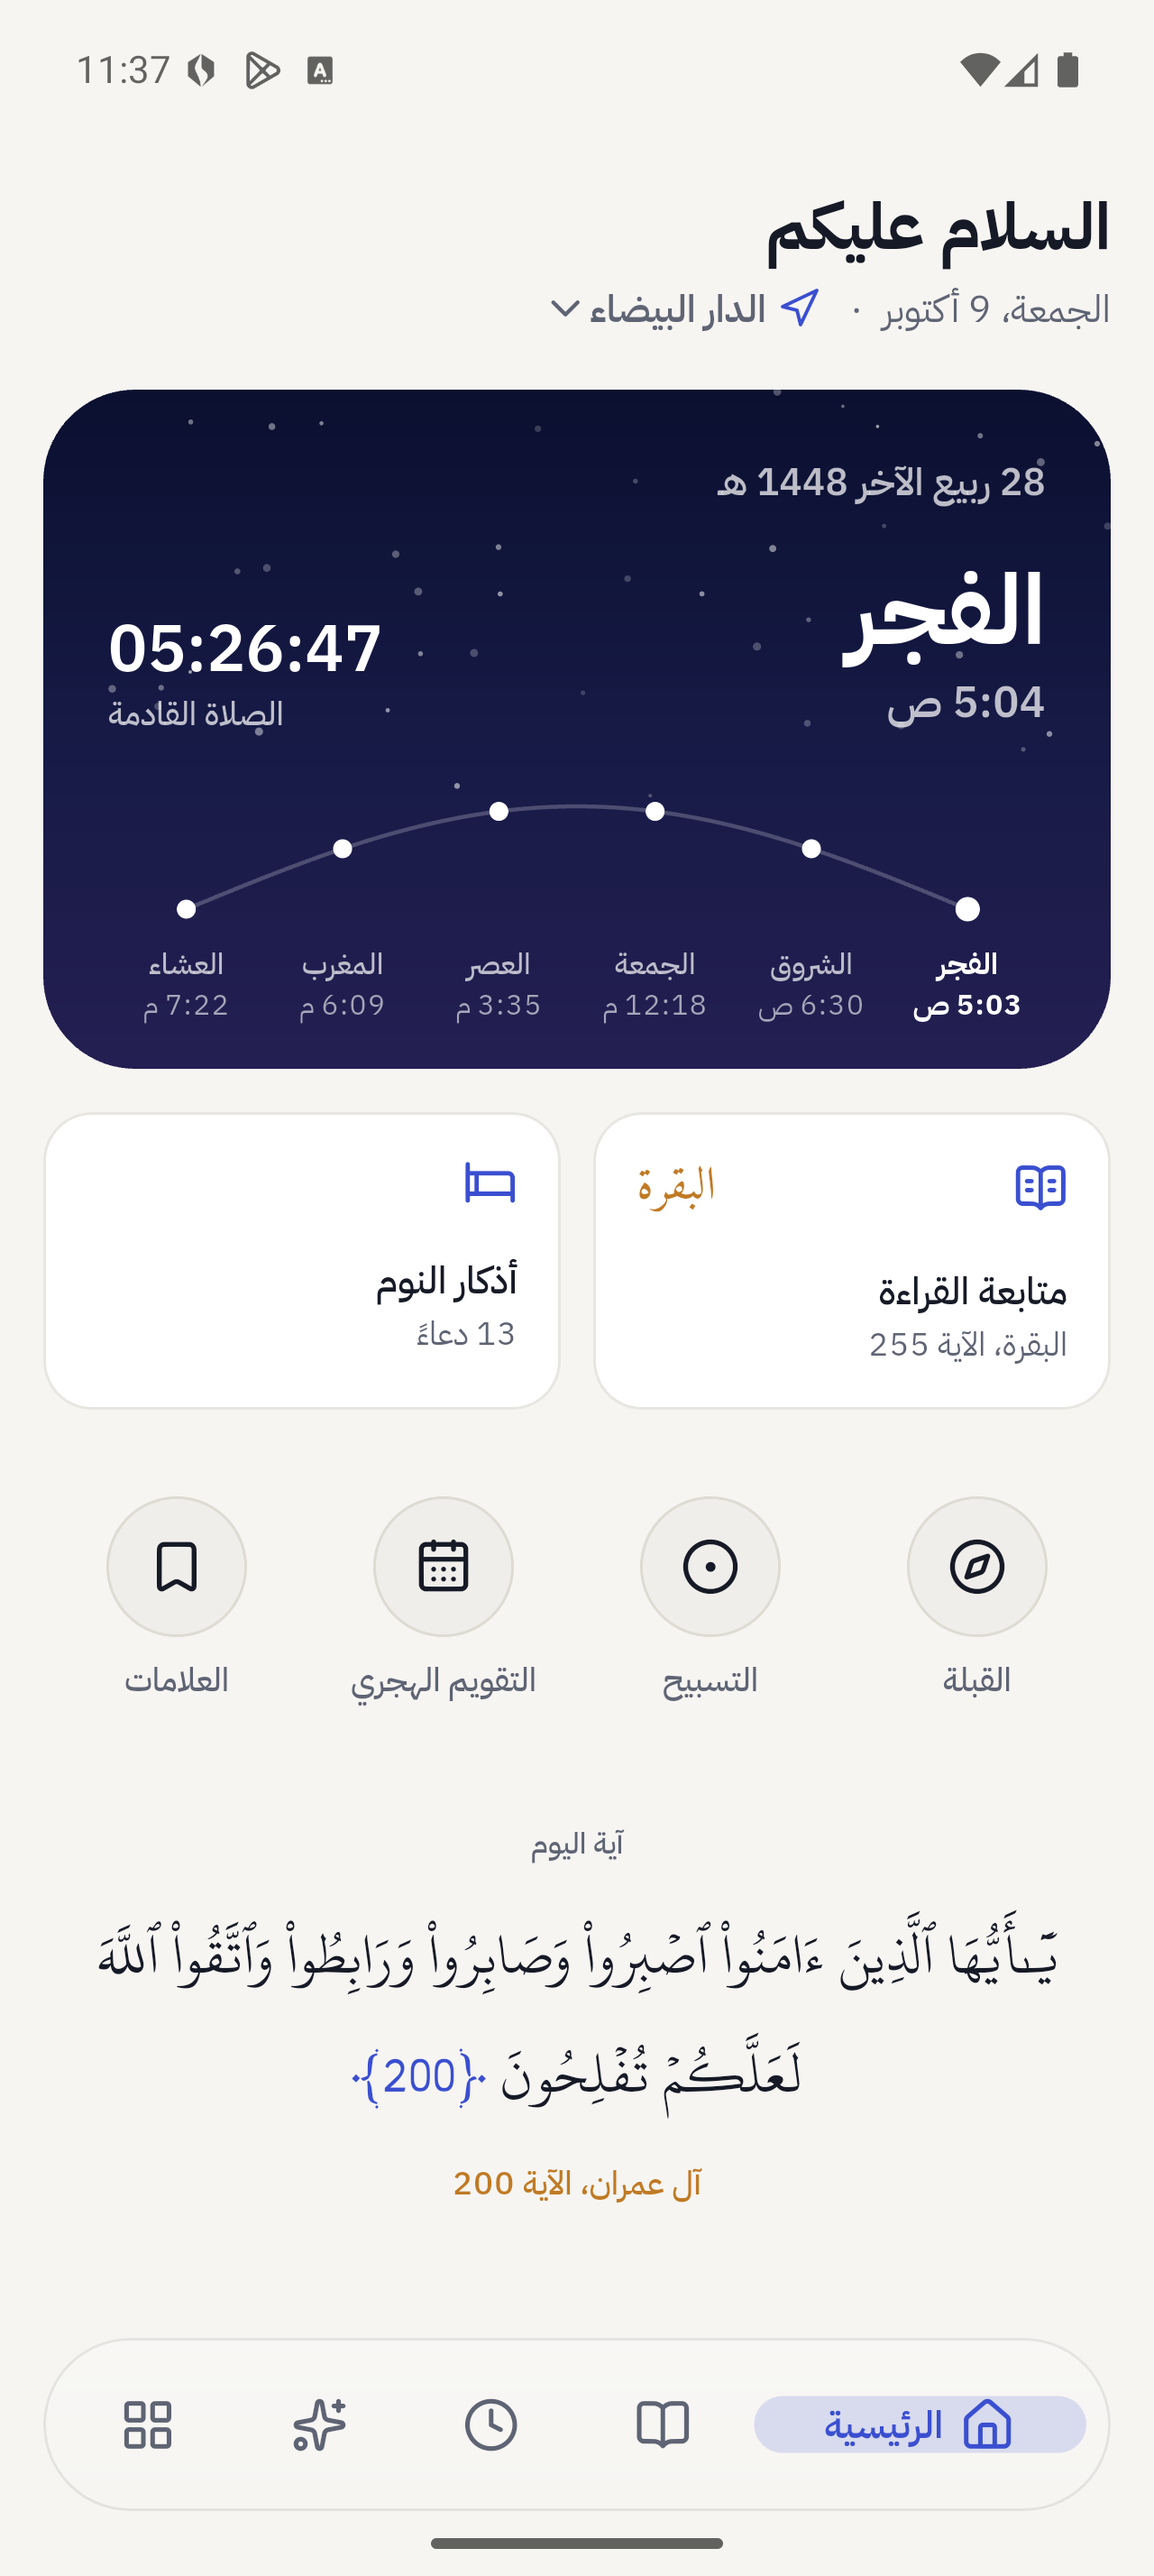
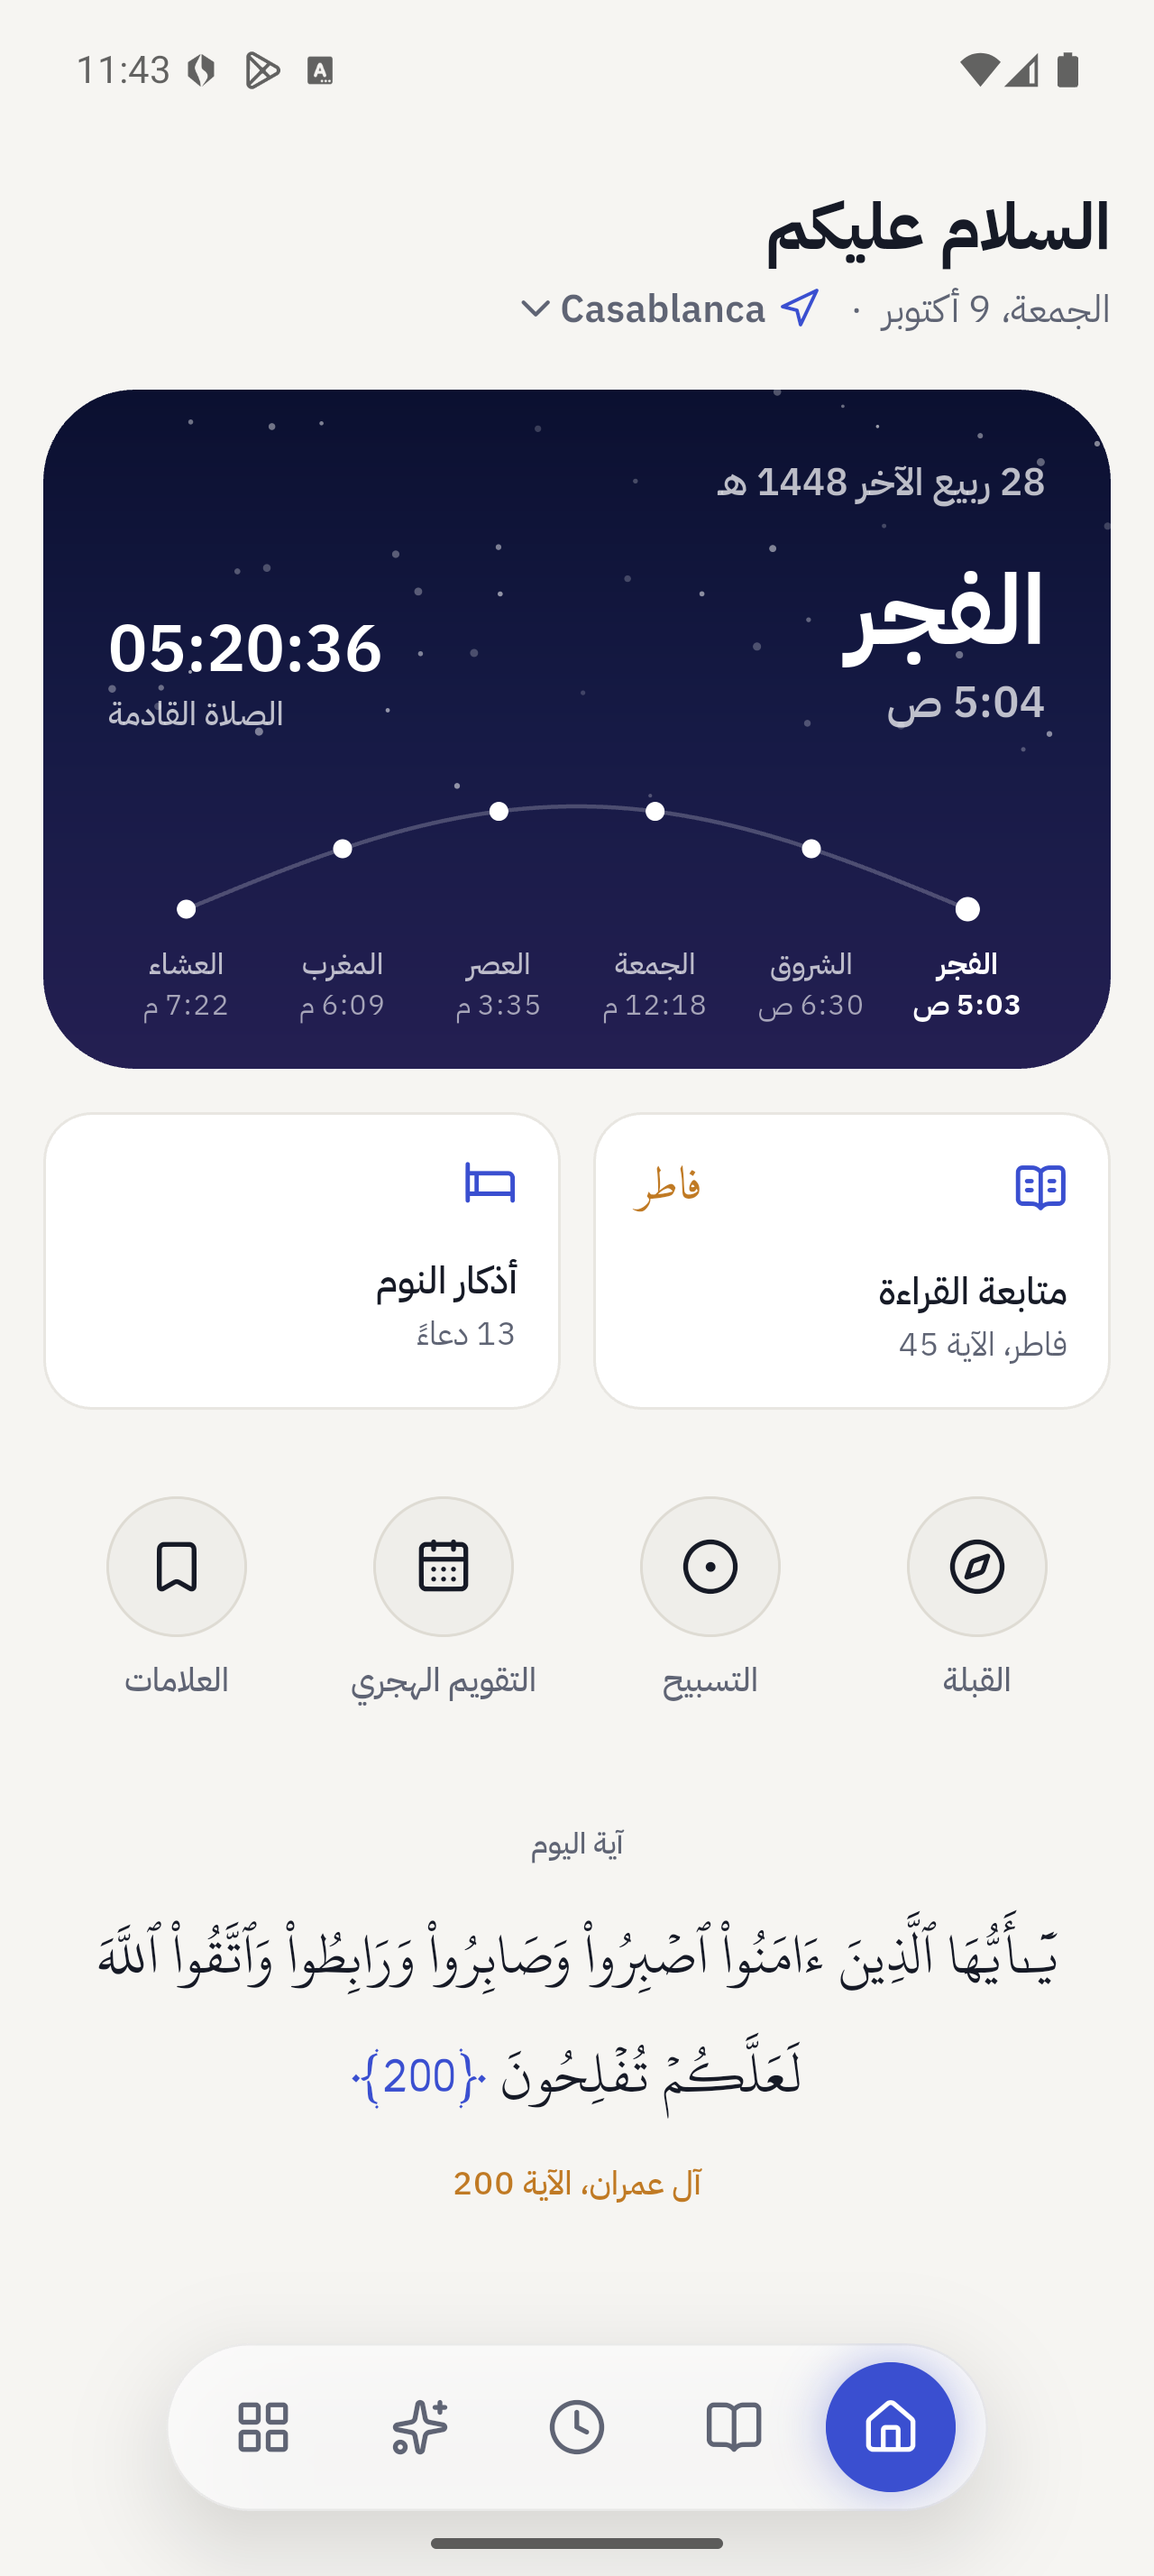
Redesign the bottom navigation bar
- Compact floating capsule centred above the content instead of a full-width bar
- Icons only, with tab names in tooltips and screen-reader labels
- Solid disc that slides to the active tab with a light spring and haptic tick
- Stronger blur, hairline edge and soft shadow for a lifted glass look
- Updated screenshots

diff --git a/sabeeli/lib/features/shell/presentation/widgets/glass_nav_bar.dart b/sabeeli/lib/features/shell/presentation/widgets/glass_nav_bar.dart
@@ -1,6 +1,7 @@
 import 'dart:ui';
 
 import 'package:flutter/material.dart';
+import 'package:flutter/services.dart';
 
 import '../../../../core/theme/app_colors.dart';
 
@@ -10,8 +11,8 @@ class GlassNavItem {
   final String label;
 }
 
-/// A floating, frosted-glass bottom bar. The selected tab grows into a pill with
-/// its label; the others show only their icon.
+/// A compact frosted-glass capsule floating above the content. The active tab is
+/// marked by a solid disc that slides between the icons.
 class GlassNavBar extends StatelessWidget {
   const GlassNavBar({
     super.key,
@@ -24,54 +25,97 @@ class GlassNavBar extends StatelessWidget {
   final int selectedIndex;
   final ValueChanged<int> onSelected;
 
-  static const height = 64.0;
-  static const margin = 16.0;
+  static const _slot = 58.0;
+  static const _height = 62.0;
+  static const _inset = 7.0;
+  static const _disc = _height - _inset * 2;
 
   @override
   Widget build(BuildContext context) {
     final colors = context.colors;
     final dark = Theme.of(context).brightness == Brightness.dark;
+    final width = _slot * items.length + _inset * 2;
+
     return SafeArea(
-      minimum: const EdgeInsets.fromLTRB(margin, 0, margin, margin),
+      minimum: const EdgeInsets.only(bottom: 18),
       child: Center(
         heightFactor: 1,
-        child: ConstrainedBox(
-          constraints: const BoxConstraints(maxWidth: 520),
+        child: DecoratedBox(
+          // The shadow sits outside the clip so the capsule looks lifted.
+          decoration: BoxDecoration(
+            borderRadius: BorderRadius.circular(_height / 2),
+            boxShadow: [
+              BoxShadow(
+                color: Colors.black.withValues(alpha: dark ? 0.45 : 0.14),
+                blurRadius: 30,
+                offset: const Offset(0, 12),
+              ),
+            ],
+          ),
           child: ClipRRect(
-            borderRadius: BorderRadius.circular(height / 2),
+            borderRadius: BorderRadius.circular(_height / 2),
             child: BackdropFilter(
-              filter: ImageFilter.blur(sigmaX: 24, sigmaY: 24),
+              filter: ImageFilter.blur(sigmaX: 30, sigmaY: 30),
               child: Container(
-                height: height,
-                padding: const EdgeInsets.symmetric(horizontal: 6),
+                width: width,
+                height: _height,
                 decoration: BoxDecoration(
-                  color: colors.surface.withValues(alpha: dark ? 0.55 : 0.62),
-                  borderRadius: BorderRadius.circular(height / 2),
+                  borderRadius: BorderRadius.circular(_height / 2),
+                  color: dark
+                      ? colors.surfaceHigh.withValues(alpha: 0.62)
+                      : Colors.white.withValues(alpha: 0.72),
+                ),
+                // The hairline is drawn on top so it takes no layout space.
+                foregroundDecoration: BoxDecoration(
+                  borderRadius: BorderRadius.circular(_height / 2),
                   border: Border.all(
-                    color: (dark ? Colors.white : Colors.black).withValues(
-                      alpha: 0.08,
-                    ),
-                  ),
-                  gradient: LinearGradient(
-                    begin: Alignment.topCenter,
-                    end: Alignment.bottomCenter,
-                    colors: [
-                      Colors.white.withValues(alpha: dark ? 0.06 : 0.35),
-                      Colors.white.withValues(alpha: 0),
-                    ],
+                    color: dark
+                        ? Colors.white.withValues(alpha: 0.09)
+                        : Colors.black.withValues(alpha: 0.06),
+                    width: 0.8,
                   ),
                 ),
-                child: Row(
+                child: Stack(
                   children: [
-                    for (final (i, item) in items.indexed)
-                      Expanded(
-                        flex: i == selectedIndex ? 2 : 1,
-                        child: _NavButton(
-                          item: item,
-                          selected: i == selectedIndex,
-                          onTap: () => onSelected(i),
+                    AnimatedPositionedDirectional(
+                      duration: const Duration(milliseconds: 380),
+                      curve: Curves.easeOutBack,
+                      top: _inset,
+                      start:
+                          _inset + selectedIndex * _slot + (_slot - _disc) / 2,
+                      child: Container(
+                        width: _disc,
+                        height: _disc,
+                        decoration: BoxDecoration(
+                          shape: BoxShape.circle,
+                          color: colors.primary,
+                          boxShadow: [
+                            BoxShadow(
+                              color: colors.primary.withValues(alpha: 0.35),
+                              blurRadius: 14,
+                            ),
+                          ],
                         ),
                       ),
+                    ),
+                    Padding(
+                      padding: const EdgeInsets.symmetric(horizontal: _inset),
+                      child: Row(
+                        children: [
+                          for (final (i, item) in items.indexed)
+                            _NavIcon(
+                              item: item,
+                              selected: i == selectedIndex,
+                              onTap: () {
+                                if (i != selectedIndex) {
+                                  HapticFeedback.selectionClick();
+                                }
+                                onSelected(i);
+                              },
+                            ),
+                        ],
+                      ),
+                    ),
                   ],
                 ),
               ),
@@ -83,8 +127,8 @@ class GlassNavBar extends StatelessWidget {
   }
 }
 
-class _NavButton extends StatelessWidget {
-  const _NavButton({
+class _NavIcon extends StatelessWidget {
+  const _NavIcon({
     required this.item,
     required this.selected,
     required this.onTap,
@@ -97,47 +141,29 @@ class _NavButton extends StatelessWidget {
   @override
   Widget build(BuildContext context) {
     final colors = context.colors;
-    return Semantics(
-      selected: selected,
-      button: true,
-      label: item.label,
-      child: GestureDetector(
-        behavior: HitTestBehavior.opaque,
-        onTap: onTap,
-        child: AnimatedContainer(
-          duration: const Duration(milliseconds: 250),
-          curve: Curves.easeOutCubic,
-          margin: const EdgeInsets.symmetric(vertical: 8, horizontal: 2),
-          decoration: BoxDecoration(
-            color: selected
-                ? colors.primary.withValues(alpha: 0.16)
-                : Colors.transparent,
-            borderRadius: BorderRadius.circular(24),
-          ),
-          child: Row(
-            mainAxisAlignment: MainAxisAlignment.center,
-            children: [
-              Icon(
-                item.icon,
-                size: 21,
-                color: selected ? colors.primary : colors.textMuted,
-              ),
-              if (selected) ...[
-                const SizedBox(width: 6),
-                Flexible(
-                  child: Text(
-                    item.label,
-                    maxLines: 1,
-                    overflow: TextOverflow.fade,
-                    softWrap: false,
-                    style: Theme.of(context).textTheme.labelLarge?.copyWith(
-                      color: colors.primary,
-                      fontWeight: FontWeight.w600,
-                    ),
-                  ),
+    return Tooltip(
+      message: item.label,
+      child: Semantics(
+        selected: selected,
+        button: true,
+        label: item.label,
+        excludeSemantics: true,
+        child: GestureDetector(
+          behavior: HitTestBehavior.opaque,
+          onTap: onTap,
+          child: SizedBox(
+            width: GlassNavBar._slot,
+            height: GlassNavBar._height,
+            child: Center(
+              child: TweenAnimationBuilder<Color?>(
+                duration: const Duration(milliseconds: 250),
+                tween: ColorTween(
+                  end: selected ? colors.onPrimary : colors.textMuted,
                 ),
-              ],
-            ],
+                builder: (_, color, _) =>
+                    Icon(item.icon, size: 22, color: color),
+              ),
+            ),
           ),
         ),
       ),

diff --git a/README.md b/README.md
@@ -51,7 +51,7 @@ No ads. No account. No tracking. Your location never leaves your device.
 - **Languages:** العربية, English, Français, اردو, Bahasa Indonesia, Türkçe, with full right-to-left support.
 - **Design:**
   - The home screen takes the colour of the sky for the current prayer period, with the day's prayers along a sun path.
-  - A floating glass navigation bar.
+  - A compact floating glass navigation capsule with a sliding active indicator.
   - Dark by default with a light mode, and a layout that adapts to phones, tablets and desktop.
 
 ## Building
